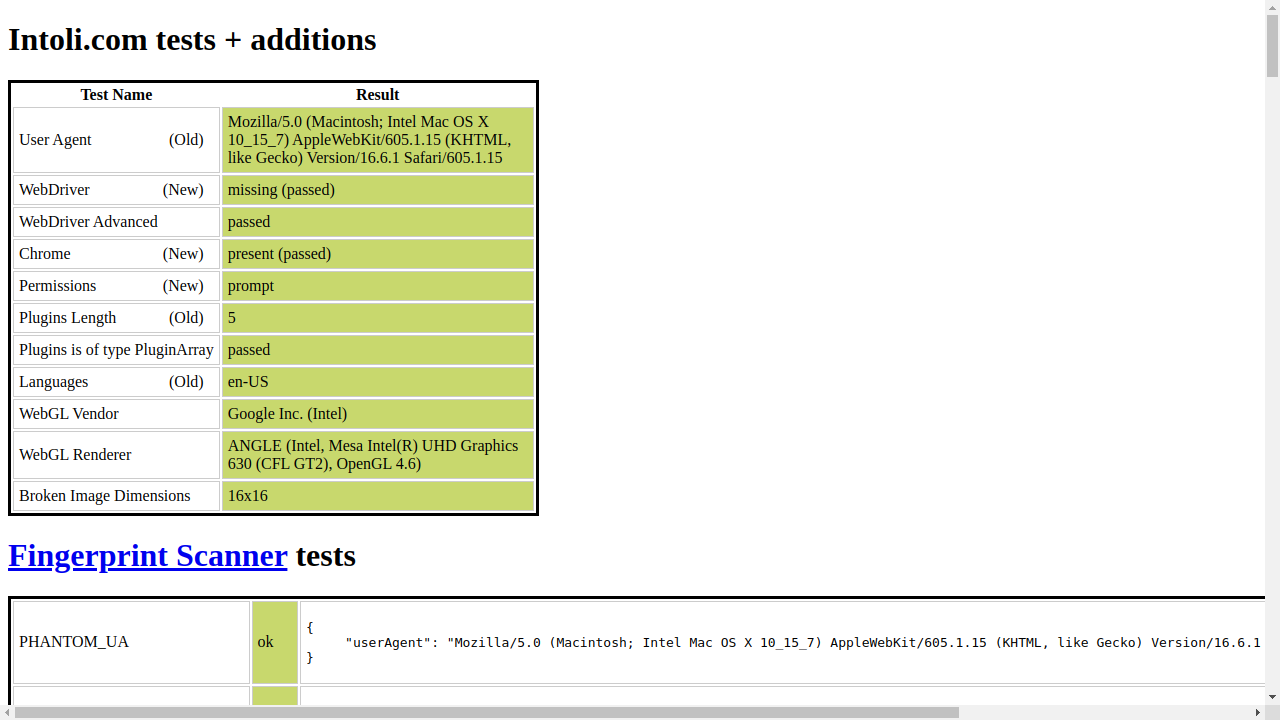
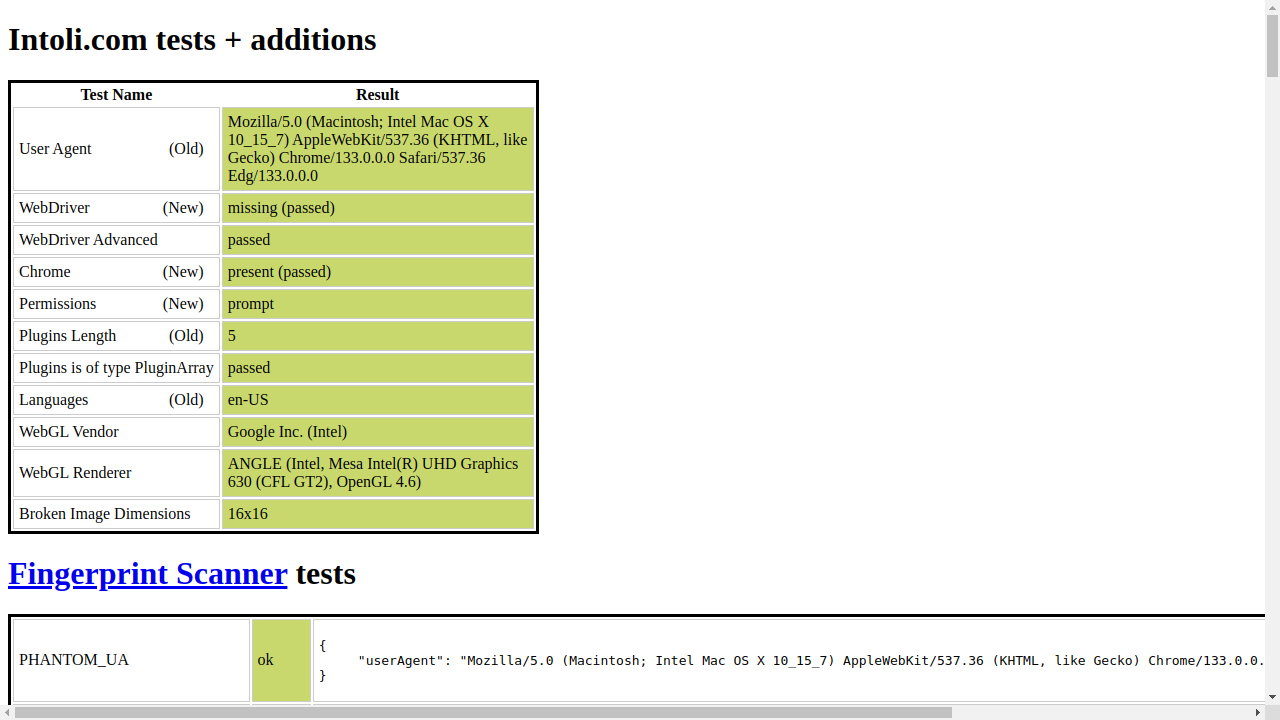
Edits to pass linter

Changed region(s): [[0.0, 0.1833, 1.0, 1.0]]

diff --git a/src/parse_receipt.py b/src/parse_receipt.py
@@ -7,6 +7,7 @@ from datetime import datetime
 from bs4 import BeautifulSoup
 from typing import List, Dict, Any
 
+
 def receipt_id_exists(filename: str, receipt_id: str) -> bool:
     logging.info(f"Checking if receipt ID '{receipt_id}' exists in '{filename}'.")
     try:
@@ -22,6 +23,7 @@ def receipt_id_exists(filename: str, receipt_id: str) -> bool:
         if record.get('receipt_id') == receipt_id:
             return True
     return False
+
 
 def parse_price_and_quantity(price_and_quantity: str):
     # Format 1: "quantity x $price"
@@ -42,10 +44,12 @@ def parse_price_and_quantity(price_and_quantity: str):
 
     raise ValueError("Invalid price string format for {}".format(price_and_quantity))
 
+
 def extract_upc(upc_string):
     match = re.match(r"UPC:\s*(\d+)", upc_string)
     if match:
         return match.group(1)
+
 
 def parse_items(soup):
     items = []
@@ -63,28 +67,32 @@ def parse_items(soup):
         item_upc = item_group.find('div', class_='ml-12 mt-4 font-secondary body-s text-neutral-most-prominent').text
         upc_id = extract_upc(item_upc)
         quantity, weight, price = parse_price_and_quantity(price_and_quantity)
-        item = { "upc_id": upc_id, "item_name": item_name, "quantity": quantity, "weight": weight, "price": price, "original_price": original_price }
+        item = {"upc_id": upc_id, "item_name": item_name, "quantity": quantity, "weight": weight, "price": price, "original_price": original_price}
         items.append(item)
         # print(item)
     return items
+
 
 def remove_symbols(text_string):
     for char in "$":
         text_string = text_string.replace(char, "")
     return text_string
 
-def format_date(date_string, current_format = "%B %d, %Y"): # March 22, 2025
+
+def format_date(date_string, current_format="%B %d, %Y"):  # March 22, 2025
     try:
         date_object = datetime.strptime(date_string, current_format)
         return date_object.strftime("%Y-%m-%d")
     except ValueError:
         return None
 
+
 def extract_span_text(soup, span_string):
     # Search for the string and work backwards to get the total
     find_span = soup.find('span', string=span_string)
     span_text = find_span.next_sibling.text
     return span_text
+
 
 def output_receipt(receipt_id, receipt_date, receipt_total, receipt_tax, receipt_items, output_file):
     logging.info(f"Writing receipt ID: {receipt_id} to {output_file}")
@@ -100,18 +108,19 @@ def output_receipt(receipt_id, receipt_date, receipt_total, receipt_tax, receipt
             try:
                 receipts = json.load(f)
             except json.JSONDecodeError:
-                receipts = [] #file is empty or corrupt
+                receipts = []  # File is empty or corrupt
             if isinstance(receipts, list):
                 receipts.append(receipt_data)
             else:
-                receipts = [receipts, receipt_data] # the json file was a single dictionary, convert to a list
+                receipts = [receipts, receipt_data]  # The json file was a single dictionary, convert to a list
             f.seek(0)  # Go back to the beginning of the file
             json.dump(receipts, f, indent=None)
-            f.truncate() #remove the old content
+            f.truncate()  # Remove the old content
     except FileNotFoundError:
         # File doesn't exist, create it and write the receipt
         with open(output_file, 'w') as f:
-            json.dump([receipt_data], f, indent=None) # Use indent=4 for pretty printing, indent=None for compact
+            json.dump([receipt_data], f, indent=None)  # Use indent=4 for pretty printing, indent=None for compact
+
 
 def parse_receipt(page, base_url, receipt_id, output_file):
     logging.info(f"Parsing receipt ID: {receipt_id}")
@@ -121,9 +130,9 @@ def parse_receipt(page, base_url, receipt_id, output_file):
         return f"Receipt ID '{receipt_id}' already exists in '{output_file}'."
     else:
         logging.info(f"Receipt ID '{receipt_id}' does not exist in '{output_file}' getting contents of receipt.")
-        sleep(randint(3,20))
+        sleep(randint(3, 20))
         page.goto(receipt_url)
-        sleep(randint(3,20))
+        sleep(randint(3, 20))
         page.is_visible('div.PH-ProductCard-container')
         html = page.inner_html('#receipt-print-area')
         soup = BeautifulSoup(html, 'html.parser')

diff --git a/src/utils.py b/src/utils.py
@@ -2,25 +2,26 @@ from random import randint
 from fake_useragent import UserAgent
 
 """
-Settings to help avoid bot detection by akamai.
+Settings to help avoid bot detection by akamai. Change user agent, playwright defaults trigger detection.
 """
 
-# Use a random user agent to try and avoid detection
+
 def rotate_user_agent():
     # For testing, other user agent options:
-    # ua = UserAgent() # All user agents
-    # ua = UserAgent(min_version=134.0) # User agents newer than min_version
+    # ua = UserAgent()  # All user agents
+    # ua = UserAgent(min_version=134.0)  # User agents newer than min_version
     # ua = UserAgent(os='Linux')  # User agents from Linux platforms
-    ua = UserAgent(os='Mac OS X') # User agents from Mac platforms
-    return ua.random # returns a random user agent string
+    ua = UserAgent(os='Mac OS X')  # User agents from Mac platforms
+    return ua.random  # returns a random user agent string
     # For testing, return a fixed user agent string
-    #return "Mozilla/5.0 (X11; Linux x86_64) AppleWebKit/537.36 (KHTML, like Gecko) Chrome/129.0.0.0 Safari/537.36"
+    # return "Mozilla/5.0 (X11; Linux x86_64) AppleWebKit/537.36 (KHTML, like Gecko) Chrome/129.0.0.0 Safari/537.36"
 
 
 def setup_context(playwright, settings):
-    # these were tested on chromium, not sure if they work on other browsers
+    # These were tested on chromium, not sure if they work on other browsers
+    # Chromium settings
     browser_args = [
-        '--disable-blink-features=AutomationControlled', # Chromium settings
+        '--disable-blink-features=AutomationControlled',
         '--ignore-gpu-blocklist',
         '--use-gl=angle',
         '--no-first-run',
@@ -29,21 +30,21 @@ def setup_context(playwright, settings):
         '--disable-infobars'
     ]
     # Other browsers to try
-    #browser = playwright.webkit.launch(headless=False, slow_mo=50)
-    #browser = playwright.firefox.launch(headless=False, slow_mo=50)
-    #browser = playwright.chromium.launch(headless=False, channel='msedge', slow_mo=50)
+    # browser = playwright.webkit.launch(headless=False, slow_mo=50)
+    # browser = playwright.firefox.launch(headless=False, slow_mo=50)
+    # browser = playwright.chromium.launch(headless=False, channel='msedge', slow_mo=50)
     browser = playwright.chromium.launch(headless=settings.HEADLESS, slow_mo=50, args=browser_args)
     context = browser.new_context(viewport={'width': 1280, 'height': 720}, user_agent=rotate_user_agent())
     return browser, context
 
+
 def move_mouse(page):
-    randomx = randint(0,50)
+    randomx = randint(0, 50)
     randomy = randint(0, 50)
     page.mouse.move(randomx, randomy)
     page.mouse.down()
-    page.mouse.move(randomx, randomy+100)
-    page.mouse.move(randomx+100, randomy+100)
-    page.mouse.move(randomx+100, randomy)
+    page.mouse.move(randomx, randomy + 100)
+    page.mouse.move(randomx + 100, randomy + 100)
+    page.mouse.move(randomx + 100, randomy)
     page.mouse.move(randomx, randomy)
     page.mouse.up()
-

diff --git a/src/main.py b/src/main.py
@@ -1,23 +1,24 @@
-'''Main entry point for the application.'''
 from app_settings import AppSettings, log
-from kroger import get_receipts
+from kroger import get_receipts, sign_in
 from parse_receipt import parse_receipt
 from playwright.sync_api import sync_playwright
 
+
 def main(settings: AppSettings):
+
     """Main function."""
 
-    kroger_domain = 'www.qfc.com' # This will hopefully work at fredmeyer.com or other kroger stores as well
+    kroger_domain = 'www.qfc.com'  # This will hopefully work at fredmeyer.com or other kroger stores as well
     purchases_url = f"https://{kroger_domain}/mypurchases"
     redirect_url = "https://www.qfc.com/mypurchases?tab=purchases&page=36"
-    timeout=60000 # 60 seconds
+    timeout = 60000  # 60 seconds
 
     with sync_playwright() as p:
         browser, context, page = sign_in(p, purchases_url, timeout, settings)
         base_url = f"https://{kroger_domain}/mypurchases/image/"
         try:
             receipts = get_receipts(page, purchases_url, redirect_url, settings)
-            # for testing
+            # For testing
             # receipts = ['705~00851~2023-04-04~500~1261444', '705~00851~2023-04-06~504~1841930', '705~00851~2023-04-07~504~1511846']
             for receipt in receipts:
                 # Construct the receipt URL
@@ -25,6 +26,7 @@ def main(settings: AppSettings):
         finally:
             context.close()
             browser.close()
+
 
 if __name__ == "__main__":
     settings = AppSettings()

diff --git a/src/util/test_browser_settings.py b/src/util/test_browser_settings.py
@@ -1,22 +1,19 @@
-import os
-import sys
 from time import sleep
 from playwright.sync_api import sync_playwright
+from app_settings import AppSettings, log
+from utils import move_mouse, setup_context
 
 """
 Test script to verify browser context passes bot detection from bot.sannysoft.com.
-Run from the root directory `python src/util/test_browser_settings.py` 
+Run from the root directory `python src/util/test_browser_settings.py`
 
 Check this file to validate it's all green
 Output: browser_settings.png
 """
 
-sys.path.append(os.path.dirname(os.path.abspath(__file__)) + "/../")
-from app_settings import AppSettings, log
-from utils import move_mouse, setup_context
-
 
 settings = AppSettings()
+
 
 def test_browser_settings():
     with sync_playwright() as p:
@@ -27,10 +24,11 @@ def test_browser_settings():
         page.wait_for_load_state('load')
         move_mouse(page)
         page.screenshot(path='browser_settings.png')
-        log.info("Screenshot saved to browser_settings.png, validate all checks are passing.") 
+        log.info("Screenshot saved to browser_settings.png, validate all checks are passing.")
         sleep(10)
         page.close()
         context.close()
         browser.close()
+
 
 test_browser_settings()

diff --git a/src/kroger.py b/src/kroger.py
@@ -6,14 +6,17 @@ from utils import move_mouse, setup_context
 from bs4 import BeautifulSoup
 from urllib.parse import urlparse
 
+
 def random_sleep(max_sleep):
     sleep_time = randint(3, max_sleep)
     log.info(f"Sleeping for {sleep_time} seconds to simulate human interaction.")
     sleep(sleep_time)
 
+
 def get_basename_from_url(url):
     parsed_url = urlparse(url)
     return os.path.basename(parsed_url.path)
+
 
 def get_receipts(page, purchases_url, redirect_url, settings):
     max_sleep = settings.MAX_SLEEP
@@ -37,6 +40,7 @@ def get_receipts(page, purchases_url, redirect_url, settings):
         log.debug(f"receipt_id: {receipt_id}")
     log.info(f"Found {len(receipts)} receipts {receipts}.")
     return receipts
+
 
 def sign_in(p, purchases_url, settings):
     username = settings.KROGER_USERNAME

diff --git a/src/app_settings.py b/src/app_settings.py
@@ -1,12 +1,11 @@
 import logging
 import os
 from pydantic_settings import BaseSettings
-from pydantic import SecretStr, StrictStr, model_validator 
+from pydantic import SecretStr, StrictStr, model_validator
 
 """Application settings using Pydantic BaseSettings."""
 
 
-"""Initialize logging configuration."""
 def get_log():
     loglevel = os.getenv('LOGLEVEL', 'INFO').upper()
     logging.basicConfig(
@@ -16,7 +15,9 @@ def get_log():
     log = logging.getLogger(__name__)
     return log
 
+
 log = get_log()
+
 
 class AppSettings(BaseSettings):
     LOGLEVEL: StrictStr = "INFO"  # Default log level
